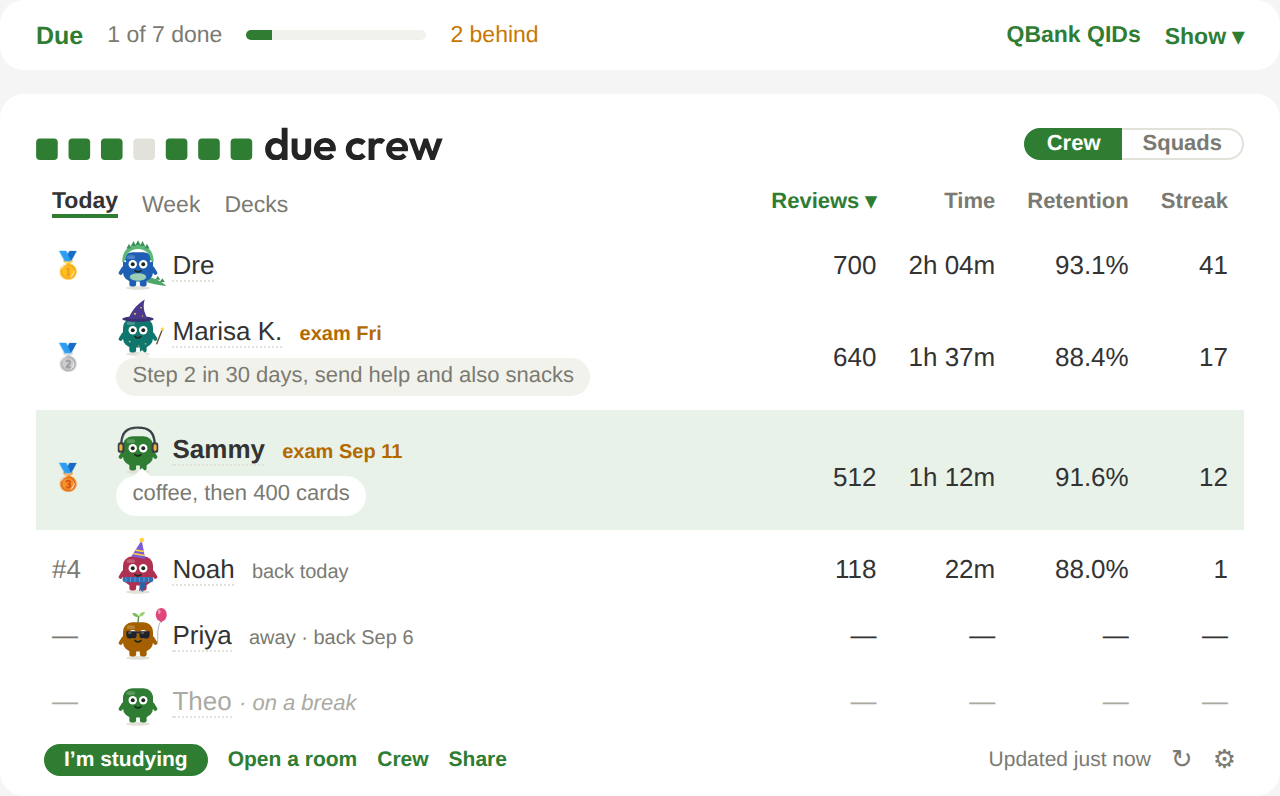
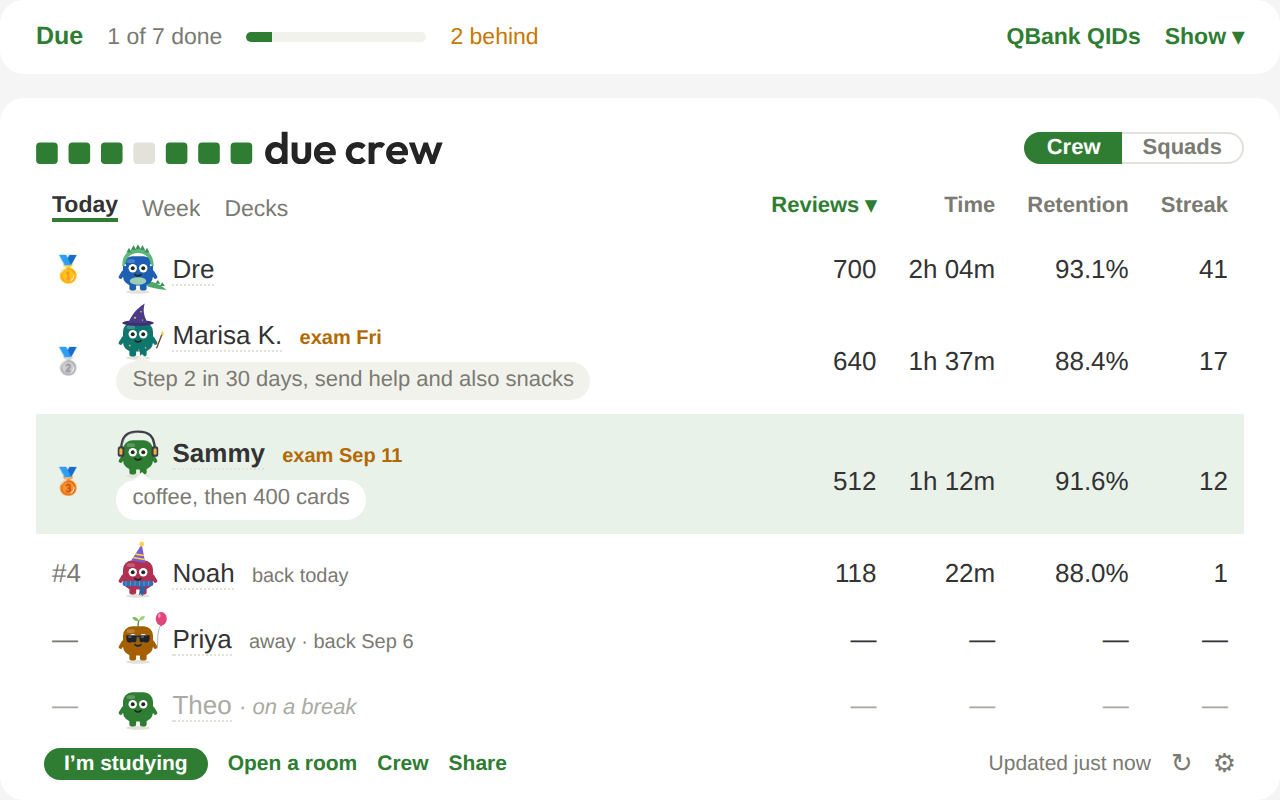
QBank QIDs on the same line as the rest of the head
Sam: "the QBank piece is a bit higher than everything else". Measured on
the README renders: Hide's ▴ (a fallback font's taller line) dropped Hide
a pixel below the tabs and QBank QIDs, and on the folded line Show and
the bigger Due sat a pixel under the counts. The head's words take one
line height; the folded line lines up by baseline, its bar still
centred. board.png and plans.png rendered again.

Claude-Session: https://claude.ai/code/session_01T9RYS9itCJ3KTL7nGa5aCe

diff --git a/due_crew/board.py b/due_crew/board.py
@@ -6892,6 +6892,10 @@ DUE_CSS = """
     #due-crew .du-h { display: flex; align-items: center; gap: 8px; flex-wrap: wrap; }
     @media (max-width: 460px) { #due-crew .du-h > .du-n { display: none; } }  /* Hide stays on the tabs' line */
     #due-crew .du-h .sp { flex: 1; }
+    /* 3.9.3 (Sam: "the QBank piece is a bit higher than everything else"): one line height for the head's words,
+       or Hide's ▴ (a fallback font's taller line) and Due's bigger word sit a pixel under the rest */
+    #due-crew .du-h > .du-n, #due-crew .du-h > .du-go, #due-crew .du-h > .du-fold,
+    #due-crew .du-one > a, #due-crew .du-one > .du-n { line-height: 16px; }
     #due-crew .du-n { color: var(--dc-muted); font-size: 11.5px; white-space: nowrap; }
     #due-crew .du-fold { font-size: 11.5px; font-weight: 600; color: var(--dc-muted); white-space: nowrap; flex: none;
       margin-left: auto; }
@@ -6969,9 +6973,9 @@ DUE_CSS = """
     #due-crew .du-ln.done > span:nth-child(2) { color: var(--dc-muted); text-decoration: line-through; }
     #due-crew .du-q { color: var(--dc-faded); font-size: 11.5px; padding: 3px 0 3px 25px; }
     #due-crew .du-evl { color: #c77700; font-weight: 700; font-size: 12px; padding-left: 25px; }
-    #due-crew .du-one { display: flex; align-items: center; gap: 6px 12px; padding: 10px 18px; white-space: nowrap; }
+    #due-crew .du-one { display: flex; align-items: baseline; gap: 6px 12px; padding: 10px 18px; white-space: nowrap; }
     #due-crew .du-one > * { flex: none; }
-    #due-crew .du-one .wbar { flex: 0 1 90px; width: auto; min-width: 24px; margin: 0; }
+    #due-crew .du-one .wbar { flex: 0 1 90px; width: auto; min-width: 24px; margin: 0; align-self: center; }
     #due-crew .du-one .sp { flex: 1 1 0; }
     #due-crew .du-one .sp { flex: 1; }
     #due-crew .du-one > a:first-child b { color: var(--dc-accent); font-size: 12.5px; }

diff --git a/tests/test_due_crew.py b/tests/test_due_crew.py
@@ -7313,6 +7313,9 @@ def test_plan_windows_ways_in_v393():
           "duecrew:planmissed|" in up[:up.index("</div>")] and "duecrew:planmissed|" in one
           and one.index("planmissed") < one.index("du-fold") and "duecrew:planmissed|" in plans_tab[:plans_tab.index("</div>")]
           and "planmissed" not in board._due_html(dict(dv, folded=True)), one)
+    check("ways in: …on one baseline with the rest (Sam: \"a bit higher than everything else\"): one line height for the head's words, the folded line by baseline",
+          "#due-crew .du-one > a, #due-crew .du-one > .du-n { line-height: 16px; }" in open(board.__file__, encoding="utf-8").read()
+          and "#due-crew .du-one { display: flex; align-items: baseline;" in open(board.__file__, encoding="utf-8").read())
     from due_crew import due_flow
     tconn = sqlite3.connect(":memory:")
     tconn.execute("CREATE TABLE tags (tag TEXT PRIMARY KEY)")

diff --git a/docs/history.md b/docs/history.md
@@ -3318,7 +3318,11 @@ every release that changes how something works.
   window is QBank QIDs now (`planner/qid_window.py`), opened from the You
   box's head in Study today's place, on every tab and on the folded line
   (`board._due_html`, `planmissed` with no deck: the one my plan runs on;
-  Sam, on the README's pictures: "missing the QID chip on the top right"), shown only when a tag here ends in a question's number
+  Sam, on the README's pictures: "missing the QID chip on the top right";
+  then "the QBank piece is a bit higher than everything else": the head's
+  words take one line height, so Hide's ▴ from a fallback font no longer
+  drops Hide a pixel, and the folded line sits on one baseline, Due's
+  bigger word too, its bar still centred), shown only when a tag here ends in a question's number
   (`due_flow.has_qids`: Anki's tag list, not the notes, read once a
   profile and day), and from Insights' line, Tools › Due Crew › Plans and
   Find a setting as before. No intro and no privacy line; the counts in
